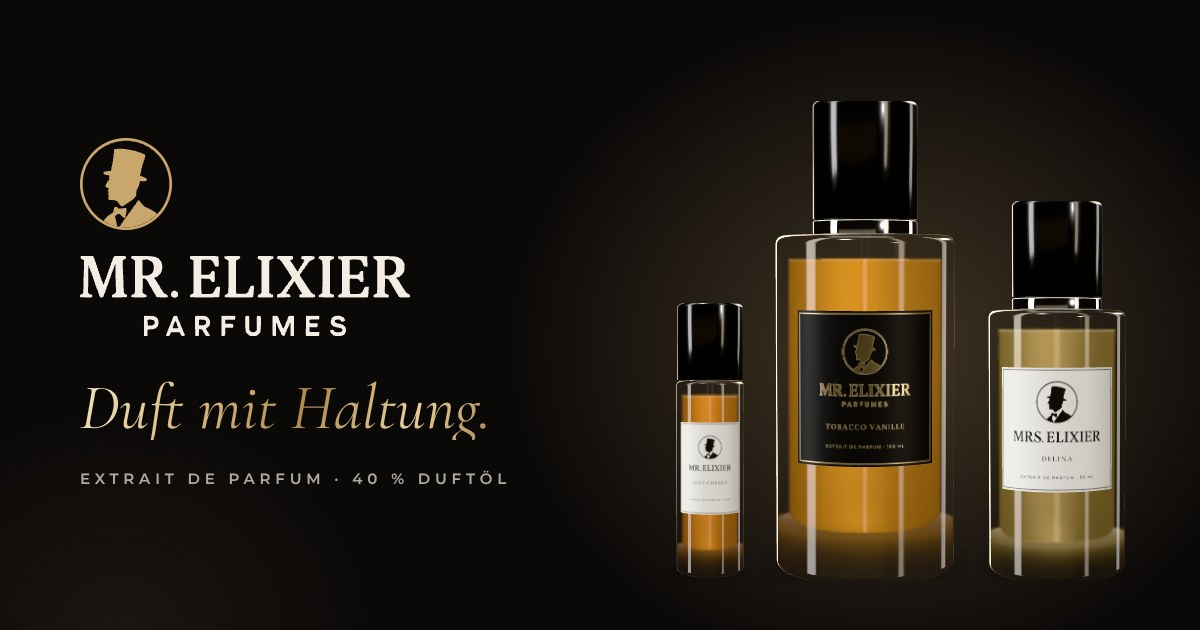
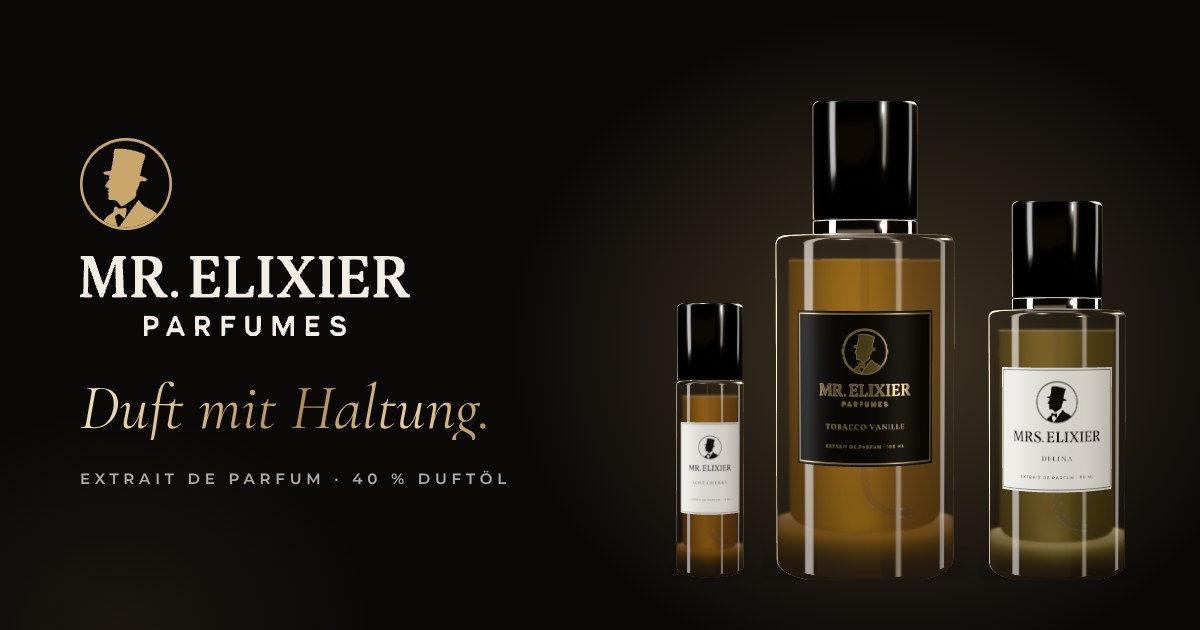
Durchsichtigere Flüssigkeit, gebogenes Steigrohr
- Flüssigkeit deutlich transparenter (3D und gezeichnet), weniger
  Hintergrundleuchten
- Steigrohr als echte gebogene Röhre: etwas länger als der Flakon, biegt
  sich am Boden zur Seite, Spitze liegt in der Ecke; durch die Flüssigkeit
  sichtbar, Kontur passend zum Hintergrund
- Link-Vorschaubild erneuert

Claude-Session: https://claude.ai/code/session_016FTMStm1rLe5bF12at1q9K

diff --git a/mr-elixier/components/bottle3d/stage.ts b/mr-elixier/components/bottle3d/stage.ts
@@ -20,6 +20,11 @@ import {
   Scene,
   ShaderMaterial,
   DoubleSide,
+  CatmullRomCurve3,
+  CustomBlending,
+  OneFactor,
+  OneMinusSrcAlphaFactor,
+  TubeGeometry,
   Vector2,
   Vector3,
   WebGLRenderer,
@@ -110,7 +115,7 @@ const LIQUID_VERTEX = /* glsl */ `
  * bleibt er gerade und schwappt nach (alles darüber wird verworfen, die Innenseite der Wand
  * dahinter zeigt den Spiegel). Gesehen wird sie nur durch das Glas, deshalb vormultipliziertes
  * Alpha: Der Hintergrund scheint durch. Dazu eine feine dunkle Brechungskante am Rand, ein
- * schwaches Lichtbündel am Boden und das Steigrohr des Zerstäubers.
+ * schwaches Lichtbündel am Boden.
  */
 const LIQUID_FRAGMENT = /* glsl */ `
   ${PREMULTIPLY}
@@ -118,8 +123,6 @@ const LIQUID_FRAGMENT = /* glsl */ `
   uniform float uDensity;
   uniform float uBacklight;
   uniform float uBottom;
-  uniform float uTube;
-  uniform vec3 uCamera;
   uniform vec3 uLevel;
   uniform vec3 uUp;
   varying vec3 vNormalView;
@@ -135,7 +138,7 @@ const LIQUID_FRAGMENT = /* glsl */ `
 
     if (!gl_FrontFacing) {
       // Spiegel von oben gesehen: fast klar, mit hellem Rand
-      gl_FragColor = premultiplied(uColor, uColor * 0.12 * meniscus + vec3(0.05) * meniscus, 0.18 + uDensity * 0.18);
+      gl_FragColor = premultiplied(uColor, uColor * 0.12 * meniscus + vec3(0.05) * meniscus, 0.07 + uDensity * 0.1);
       return;
     }
 
@@ -143,43 +146,39 @@ const LIQUID_FRAGMENT = /* glsl */ `
     float edge = 1.0 - clamp(dot(n, normalize(vViewDir)), 0.0, 1.0);
     float h = clamp((vPos.y - uBottom) / max(uLevel.y - uBottom, 1.0), 0.0, 1.0);
 
-    float alpha = mix(0.14, 0.5, uDensity) + 0.24 * pow(edge, 2.0);
+    float alpha = mix(0.05, 0.22, uDensity) + 0.14 * pow(edge, 2.0);
     vec3 body = uColor * (1.0 - 0.3 * pow(edge, 1.5)) * mix(0.88, 1.0, h);
     // feine dunkle Brechungskante innen an der Glaswand
     float rim = smoothstep(0.86, 0.985, edge);
     body *= 1.0 - 0.45 * rim;
-    alpha = mix(alpha, 0.8, rim * 0.7);
+    alpha = mix(alpha, 0.55, rim * 0.6);
 
     // vor dunklem Hintergrund leuchtet das Licht von hinten durch die Flüssigkeit
     float glow = exp(-pow(n.x + 0.18, 2.0) / 0.22);
-    vec3 light = uColor * uBacklight * (0.05 + 0.2 * glow) * (0.3 + 0.7 * uDensity) * (1.0 - edge) * mix(0.7, 1.0, h);
+    vec3 light = uColor * uBacklight * (0.02 + 0.11 * glow) * (0.3 + 0.7 * uDensity) * (1.0 - edge) * mix(0.7, 1.0, h);
     float caustic = exp(-pow(n.x + 0.04, 2.0) / 0.05) * (1.0 - smoothstep(0.0, 0.18, h));
-    light += uColor * 0.06 * caustic;
+    light += uColor * 0.03 * caustic;
     light += vec3(0.05) * meniscus;
-
-    // Steigrohr aus klarem Kunststoff: zwei feine Kanten, innen etwas heller
-    vec2 into = normalize(vPos - uCamera).xz;
-    float dist = abs(vPos.x * into.y - vPos.z * into.x) / max(length(into), 1e-4);
-    float onTube = step(uBottom + 0.5, vPos.y);
-    float wallLine = (smoothstep(uTube * 0.62, uTube * 0.82, dist) - smoothstep(uTube * 0.86, uTube, dist)) * onTube;
-    float core = (1.0 - smoothstep(uTube * 0.3, uTube * 0.6, dist)) * onTube;
-    body *= 1.0 - 0.5 * wallLine;
-    alpha = mix(alpha, 0.75, wallLine * 0.7);
-    light += vec3(0.05) * core;
 
     gl_FragColor = premultiplied(body, light, alpha);
   }
 `;
 
-/** Steigrohr über der Flüssigkeit: klarer Kunststoff mit hellen Kanten */
+/**
+ * Steigrohr aus klarem Kunststoff: fast unsichtbar, nur die Kanten zeichnen sich ab – innen
+ * hell, ganz außen eine feine dunkle Linie wie bei echtem Kunststoffschlauch.
+ */
 const TUBE_FRAGMENT = /* glsl */ `
   ${PREMULTIPLY}
+  uniform float uLightBackground;
   varying vec3 vNormalView;
   varying vec3 vViewDir;
   void main() {
     float edge = 1.0 - clamp(abs(dot(normalize(vNormalView), normalize(vViewDir))), 0.0, 1.0);
-    float alpha = 0.14 + 0.5 * pow(edge, 2.0);
-    gl_FragColor = premultiplied(vec3(0.9, 0.91, 0.9), vec3(0.0), alpha);
+    float alpha = 0.05 + 0.55 * pow(edge, 3.0);
+    // vor hellem Grund dunkle Kontur, vor dunklem helle
+    vec3 col = mix(vec3(0.93), vec3(mix(0.85, 0.18, uLightBackground)), smoothstep(0.88, 0.98, edge));
+    gl_FragColor = premultiplied(col, vec3(0.0), alpha);
   }
 `;
 
@@ -409,8 +408,6 @@ async function buildStage(canvas: HTMLCanvasElement, options: StageOptions): Pro
         uDensity: { value: perfumeDepth(options.scent.tint) },
         uBacklight: { value: lightBackground ? 0 : 1 },
         uBottom: { value: base },
-        uTube: { value: tubeRadius },
-        uCamera: { value: new Vector3() },
         uLevel: { value: new Vector3() },
         uUp: { value: new Vector3(0, 1, 0) },
       },
@@ -426,17 +423,50 @@ async function buildStage(canvas: HTMLCanvasElement, options: StageOptions): Pro
     liquidMaterial,
   );
   const levelLocal = new Vector3(0, liquidTop, 0);
-  // Kamera im Raum der Flüssigkeit (für das Steigrohr) und Spiegelhöhe in der Welt
-  liquid.onBeforeRender = (_renderer, _scene, cam) => {
-    liquid.worldToLocal(liquidMaterial.uniforms.uCamera.value.copy(cam.position));
+  // Spiegelhöhe in der Welt
+  liquid.onBeforeRender = () => {
     liquid.localToWorld(liquidMaterial.uniforms.uLevel.value.copy(levelLocal));
   };
 
-  const tube = new Mesh(
-    track(new CylinderGeometry(tubeRadius, tubeRadius, H - base - 0.5, 24, 1, true)),
-    own(new ShaderMaterial({ vertexShader: BASE_VERTEX, fragmentShader: TUBE_FRAGMENT, side: DoubleSide })),
+  // Steigrohr: etwas länger als der Flakon, deshalb biegt es sich am Boden zur Seite und
+  // die Spitze liegt in der Ecke. Gezeichnet über der Flüssigkeit (ohne Tiefentest), damit
+  // es durch sie hindurch sichtbar bleibt.
+  const tubeTop = H - 0.8;
+  const bend = new Vector3(Math.cos(0.55), 0, -Math.sin(0.55));
+  const at = (out: number, y: number) => bend.clone().multiplyScalar(rl * out).setY(y);
+  const tubePath = new CatmullRomCurve3(
+    [
+      at(0, tubeTop),
+      at(0, base + (tubeTop - base) * 0.5),
+      at(0, base + rl * 0.62),
+      at(0.08, base + rl * 0.32),
+      at(0.3, base + tubeRadius * 2.4),
+      at(0.55, base + tubeRadius * 1.1),
+      at(0.76, base + tubeRadius),
+    ],
+    false,
+    "centripetal",
   );
-  tube.position.y = base + 0.5 + (H - base - 0.5) / 2;
+  const tube = new Mesh(
+    track(new TubeGeometry(tubePath, 140, tubeRadius, 16, false)),
+    own(
+      new ShaderMaterial({
+        vertexShader: BASE_VERTEX,
+        fragmentShader: TUBE_FRAGMENT,
+        uniforms: { uLightBackground: { value: lightBackground ? 1 : 0 } },
+        side: DoubleSide,
+        // vormultipliziert überblenden, bleibt aber im Durchsicht-Bild des Glases
+        blending: CustomBlending,
+        blendSrc: OneFactor,
+        blendDst: OneMinusSrcAlphaFactor,
+        blendSrcAlpha: OneFactor,
+        blendDstAlpha: OneMinusSrcAlphaFactor,
+        depthTest: false,
+        depthWrite: false,
+      }),
+    ),
+  );
+  tube.renderOrder = 2;
 
   const baseMaterial = own(
     new ShaderMaterial({

diff --git a/mr-elixier/components/bottle/Bottle.tsx b/mr-elixier/components/bottle/Bottle.tsx
@@ -174,8 +174,15 @@ export function Bottle({ ml, name, line, tint, sweep = false, shadow = true, dec
   // Parfümfarbe (Stroh bis Bernstein) und wie dicht sie wirkt
   const deep = perfumeLiquid(tint);
   const density = perfumeDepth(tint);
-  const liquidAlpha = 0.32 + density * 0.3;
+  const liquidAlpha = 0.12 + density * 0.2;
   const tube = Math.max(1.2, body.rx * 0.05);
+  const inner = body.rx - g.wall;
+  const tipY = liquidBottom - tube * 0.7;
+  const tubePath = [
+    `M${n(cx)},${n(body.top + 3)}`,
+    `V${n(liquidBottom - inner * 0.62)}`,
+    `C${n(cx)},${n(liquidBottom - inner * 0.2)} ${n(cx + inner * 0.18)},${n(tipY)} ${n(cx + inner * 0.62)},${n(tipY)}`,
+  ].join("");
   const capL = cx - cap.rx;
   const labelL = cx - label.w / 2;
 
@@ -206,9 +213,9 @@ export function Bottle({ ml, name, line, tint, sweep = false, shadow = true, dec
         {/* klare Flüssigkeit: satte Farbe, halb durchsichtig – zum Rand dichter */}
         <linearGradient id={id("liq")} x1="0" x2="1" y1="0" y2="0">
           {stop(0, shade(deep, -0.4), 0.85)}
-          {stop(0.06, deep, liquidAlpha + 0.18)}
+          {stop(0.06, deep, liquidAlpha + 0.12)}
           {stop(0.5, deep, liquidAlpha)}
-          {stop(0.94, deep, liquidAlpha + 0.18)}
+          {stop(0.94, deep, liquidAlpha + 0.12)}
           {stop(1, shade(deep, -0.4), 0.85)}
         </linearGradient>
         {/* durchscheinendes Licht: helles Band links der Mitte, rechts ein schmaler Reflex */}
@@ -340,14 +347,9 @@ export function Bottle({ ml, name, line, tint, sweep = false, shadow = true, dec
         ry={n(body.rx * 0.16)}
         fill={url("caustic")}
       />
-      {/* Steigrohr des Zerstäubers */}
-      <rect x={n(cx - tube / 2)} y={n(body.top)} width={n(tube)} height={n(liquidBottom - body.top - 1)} fill="#fff" fillOpacity={0.14} />
-      <path
-        d={`M${n(cx - tube / 2)},${n(body.top)}V${n(liquidBottom - 1)}M${n(cx + tube / 2)},${n(body.top)}V${n(liquidBottom - 1)}`}
-        stroke="#000"
-        strokeOpacity={0.14}
-        strokeWidth={n(tube * 0.18)}
-      />
+      {/* Steigrohr des Zerstäubers – am Boden zur Seite gebogen */}
+      <path d={tubePath} fill="none" stroke="#000" strokeOpacity={0.16} strokeWidth={n(tube)} strokeLinecap="round" />
+      <path d={tubePath} fill="none" stroke="#fff" strokeOpacity={0.35} strokeWidth={n(tube * 0.6)} strokeLinecap="round" />
       <ellipse cx={cx} cy={n(liquidTop)} rx={n(body.rx - g.wall)} ry={n(surfaceRy)} fill={url("surface")} />
       <path
         d={`M${n(left + g.wall)},${n(liquidTop)}A${n(body.rx - g.wall)},${n(surfaceRy)} 0 0 0 ${n(right - g.wall)},${n(liquidTop)}`}
